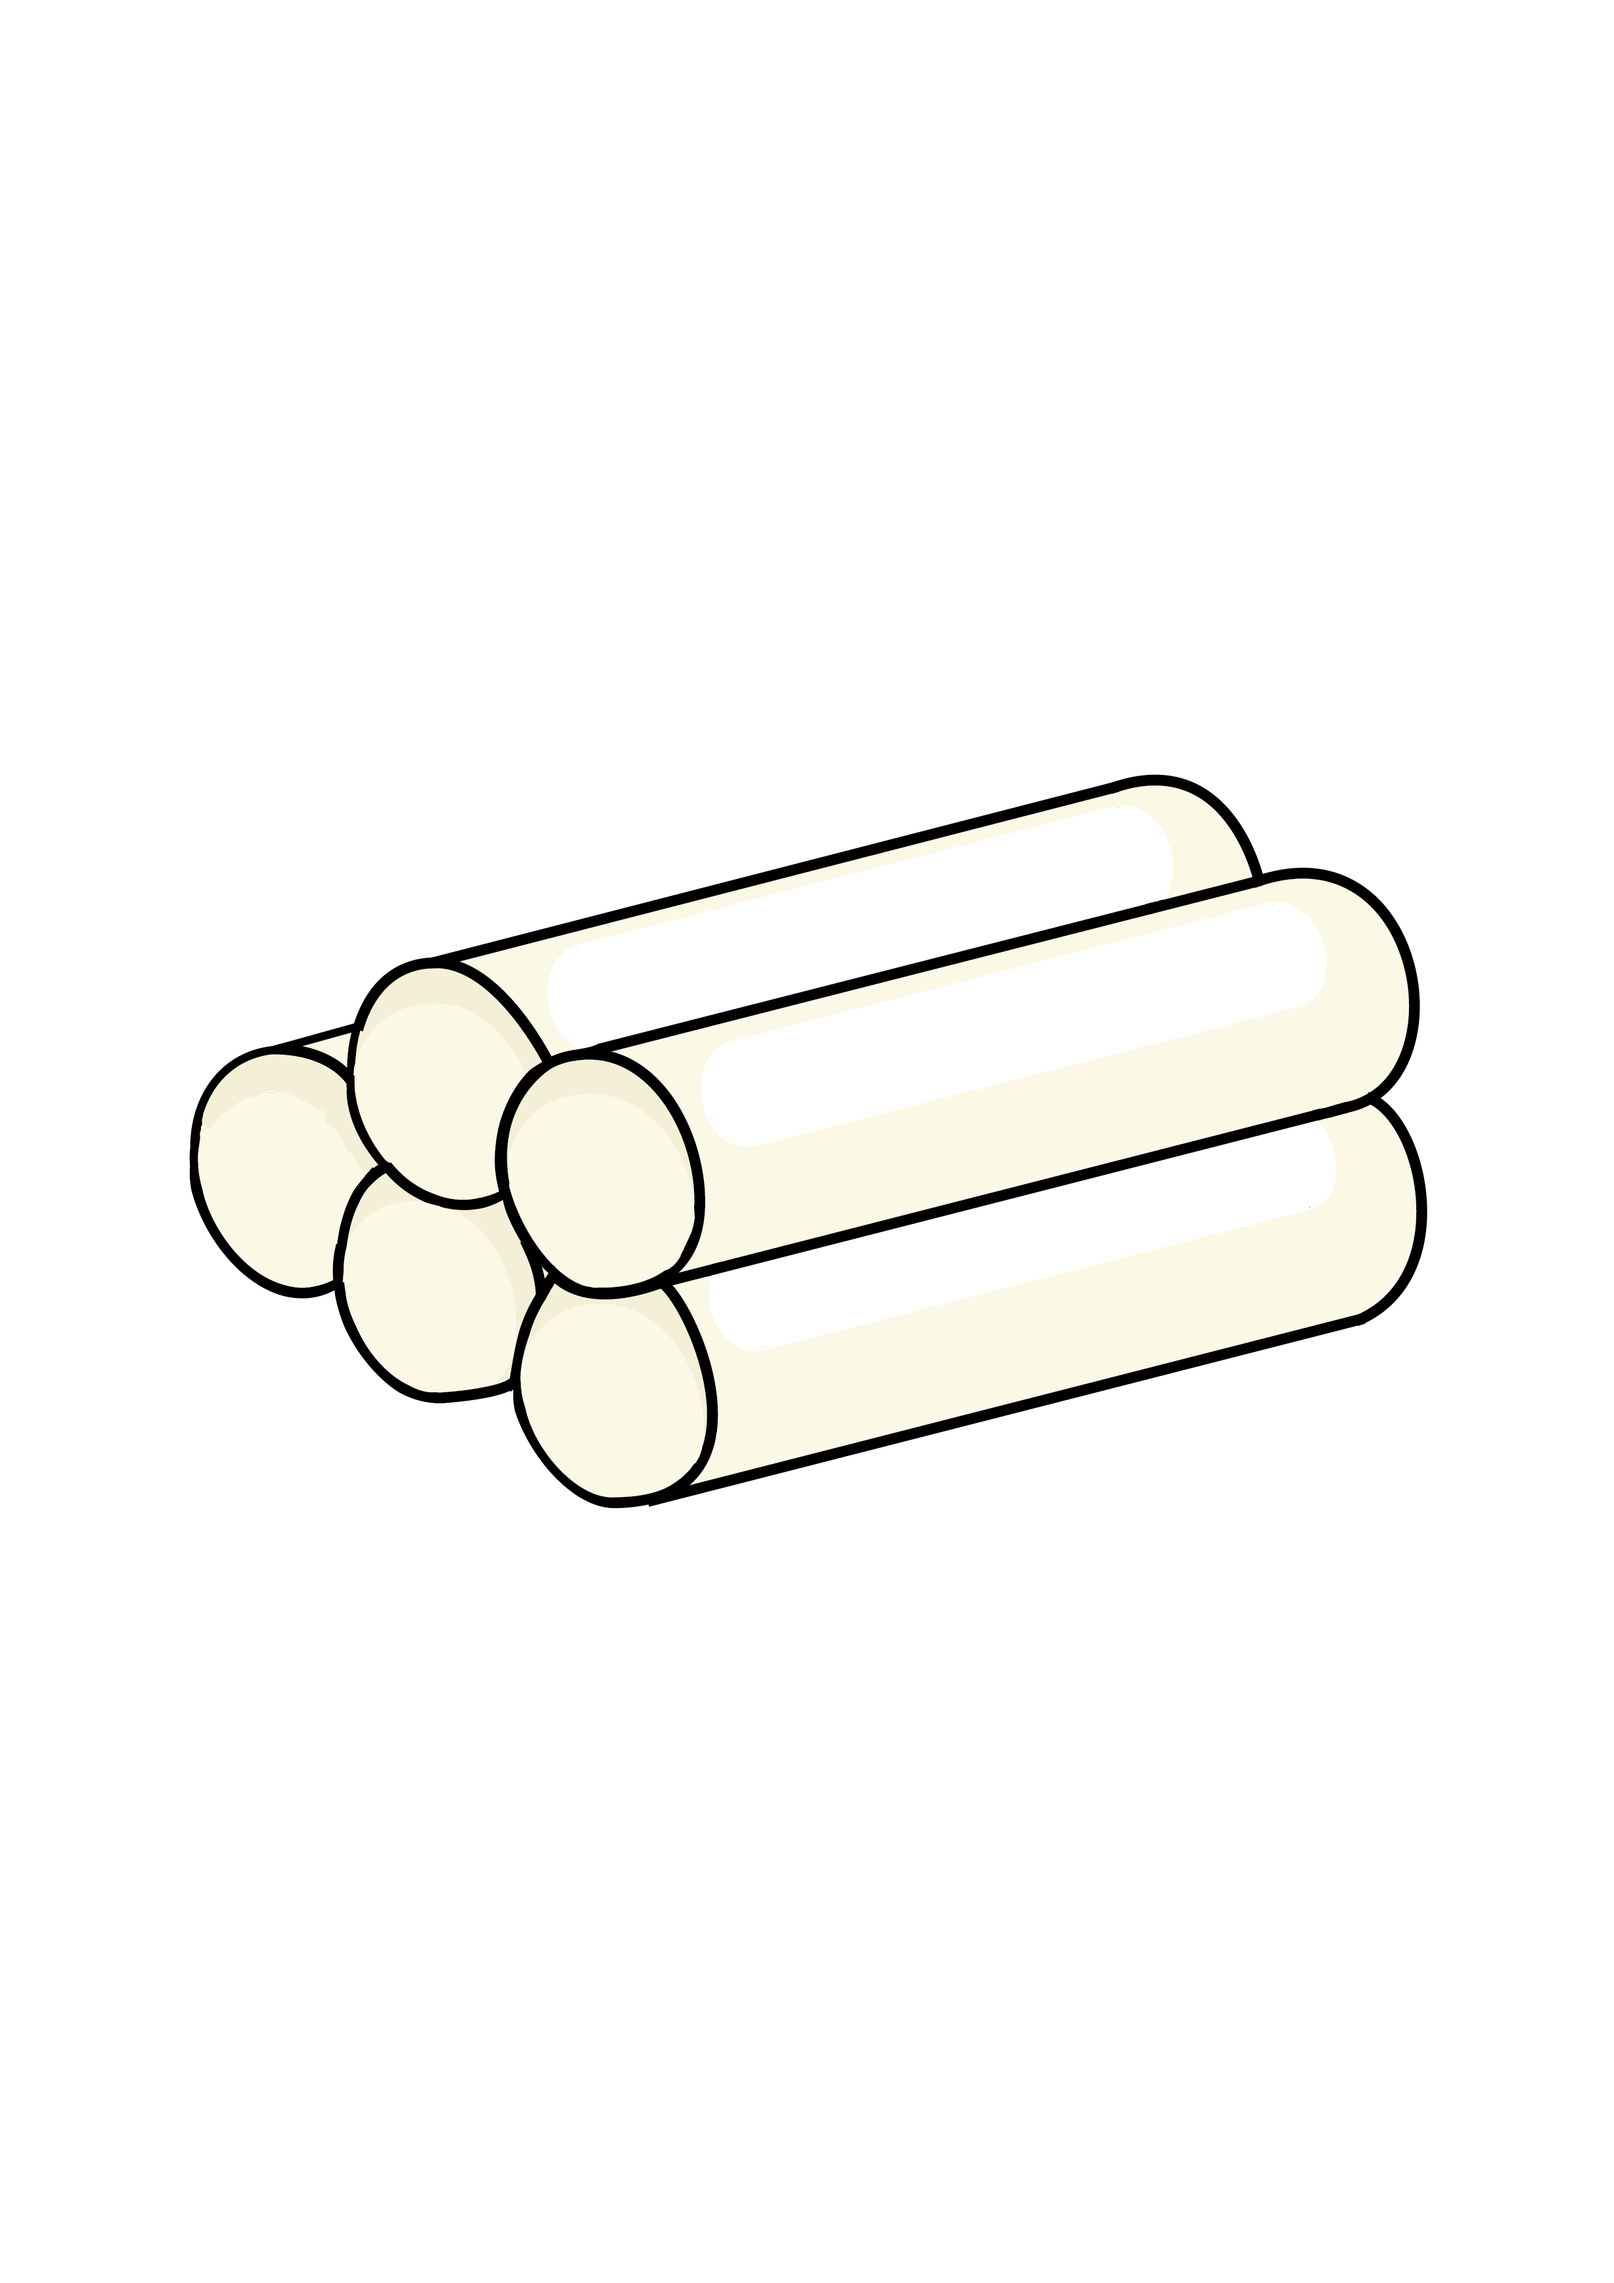
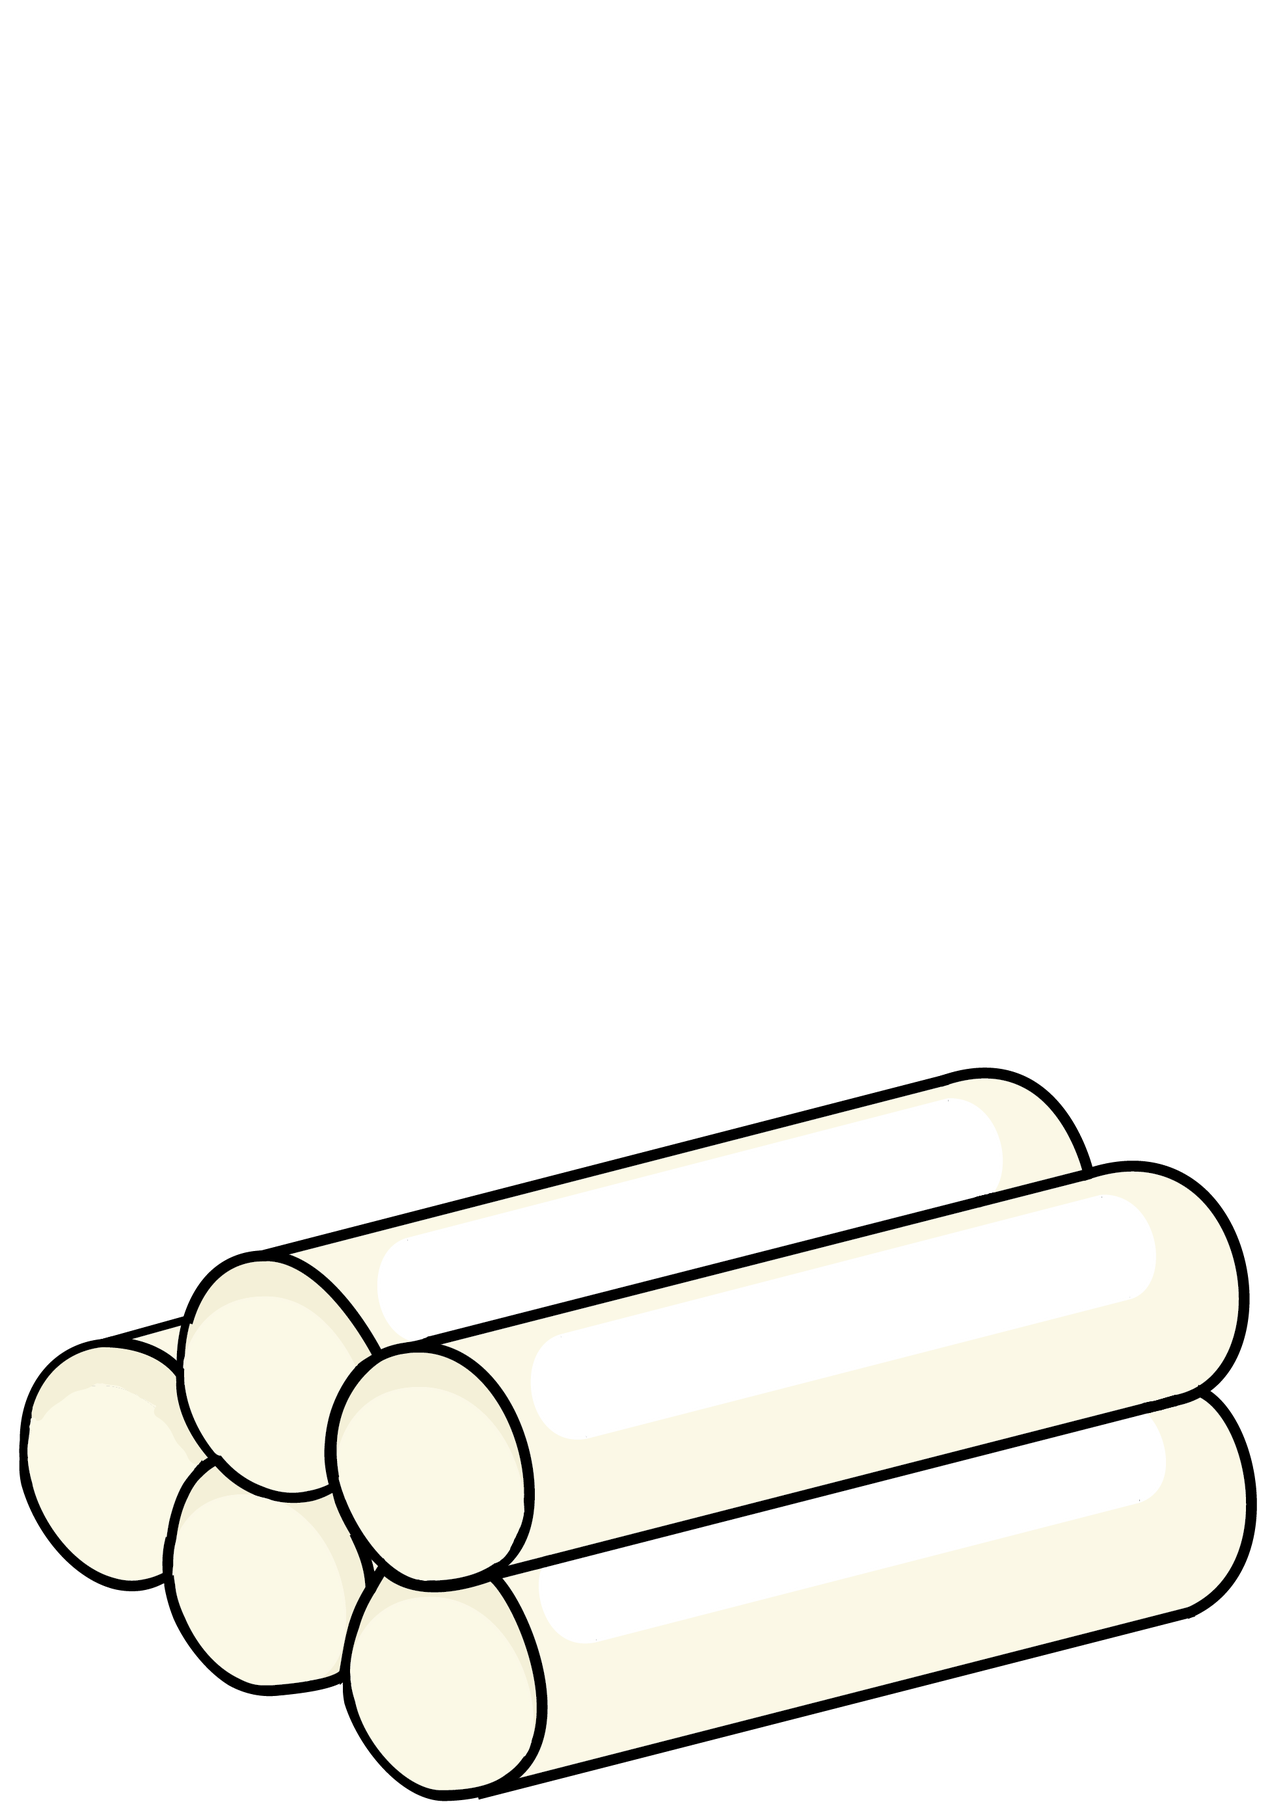
dayeon's commit - placement completed:)

Changed region(s): [[0.0, 0.3426, 0.9884, 0.9968]]

diff --git a/play.html b/play.html
@@ -30,7 +30,7 @@
                 <div class="section" id="second-section">
                     <!--식재료 부분-->
                     <div class="ingredient-section">
-                        <img src="image/play_icon/햄.png" alt="햄" class="ingredient-1" id="ingre-4">
+                        <img src="image/play_icon/소금.png" alt="소금" class="ingredient-1" id="ingre-4">
                         <img src="image/play_icon/뼈고기.png" alt="뼈고기" class="ingredient-2" id="ingre-5">
                         <img src="image/play_icon/야채.png" alt="야채" class="ingredient-3" id="ingre-6">
                     </div>
@@ -43,8 +43,10 @@
                 <!--세번째 선반 전체-->
                 <div class="section" id="third-section">
                     <!--식재료 부분-->
-                    <div class="ingredient-sction">
-                    
+                    <div class="ingredient-section">
+                        <img src="image/play_icon/빨간양념.png" alt="빨간양념" class="ingredient-1" id="ingre-7">
+                        <img src="image/play_icon/면.png" alt="면" class="ingredient-2" id="ingre-8">
+                        <img src="image/play_icon/햄.png" alt="햄" class="ingredient-3" id="ingre-9">
                     </div>
                     <!--선반 부분-->
                     <div class="shelf-section">
@@ -52,11 +54,56 @@
                     </div> 
                 </div>
 
-                <!--테이블 놓는 부분 전체-->
-                <div class="fixed-section" id="table-section">
+                <!--네번째 선반 전체-->
+                <div class="section" id="fourth-section">
+                    <!--식재료 부분-->
+                    <div class="ingredient-section">
+                        <img src="image/play_icon/당면.png" alt="빨간양념" class="ingredient-1" id="ingre-7">
+                        <img src="image/play_icon/고기.png" alt="면" class="ingredient-2" id="ingre-8">
+                        <img src="image/play_icon/곡물.png" alt="햄" class="ingredient-3" id="ingre-9">
+                    </div>    
+                    <!--선반 부분-->
+                    <div class="shelf-section">
+                        <img src="image/settings/선반2.png" alt="선반" class="shelf">
+                    </div> 
+                </div>   
 
+                <!--다섯번째 선반 전체-->
+                <div class="section" id="third-section">
+                    <!--식재료 부분-->
+                    <div class="ingredient-section">
+                        <img src="image/play_icon/육수.png" alt="빨간양념" class="ingredient-1" id="ingre-7">
+                        <img src="image/play_icon/떡.png" alt="면" class="ingredient-2" id="ingre-8">
+                        <img src="image/play_icon/원두.png" alt="햄" class="ingredient-3" id="ingre-9">
+                    </div>
+                    <!--선반 부분-->
+                    <div class="shelf-section">
+                        <img src="image/settings/선반1.png" alt="선반" class="shelf">
+                    </div> 
                 </div>
 
+                <!--여섯번째 선반 전체-->
+                <div class="section" id="third-section">
+                    <!--식재료 부분-->
+                    <div class="ingredient-section">
+                        <img src="image/play_icon/생선.png" alt="빨간양념" class="ingredient-1" id="ingre-7">
+                        <img src="image/play_icon/물.png" alt="면" class="ingredient-2" id="ingre-8">
+                        <img src="image/play_icon/해초.png" alt="햄" class="ingredient-3" id="ingre-9">
+                    </div>
+                    <!--선반 부분-->
+                    <div class="shelf-section">
+                        <img src="image/settings/선반1.png" alt="선반" class="shelf">
+                    </div> 
+                </div>
+
+                <!--마지막 선반과 테이블 사이 마진 놓는 부분-->
+                <div class="margin"></div> 
+
+                <!--테이블 놓는 부분 전체-->
+                <div class="fixed-section" id="table-section">
+                    <img src="image/settings/식탁1.png" alt="식탁" class="table">
+                </div>
+                   
             </div> <!--end of container-->
         </div> <!--end of frame-->
     </body>

diff --git a/css/play.css b/css/play.css
@@ -1,19 +1,17 @@
 body {
     background-color: #FBE3BE;
 }
-.frame{
-    max-width: 100%;
-    max-height: 100%;
-}
 .container{
     text-align: center;
     max-width: 32%;
     max-height: 32%;
 }
+
 img{
     max-width: 100%;
     max-height: auto;
 }
+
 .ingredient-section{
     display: flex;
 }
@@ -26,6 +24,18 @@ img{
 .ingredient-3{
     flex: 1;
 }
+
 .shelf{
     max-width: 305%;
+}
+.fixed-section{
+    overflow: hidden;
+}
+.table{
+    left: 0%;
+    bottom: 0%;
+    position: fixed;
+}
+.margin{
+    margin-bottom: 180%;
 }
